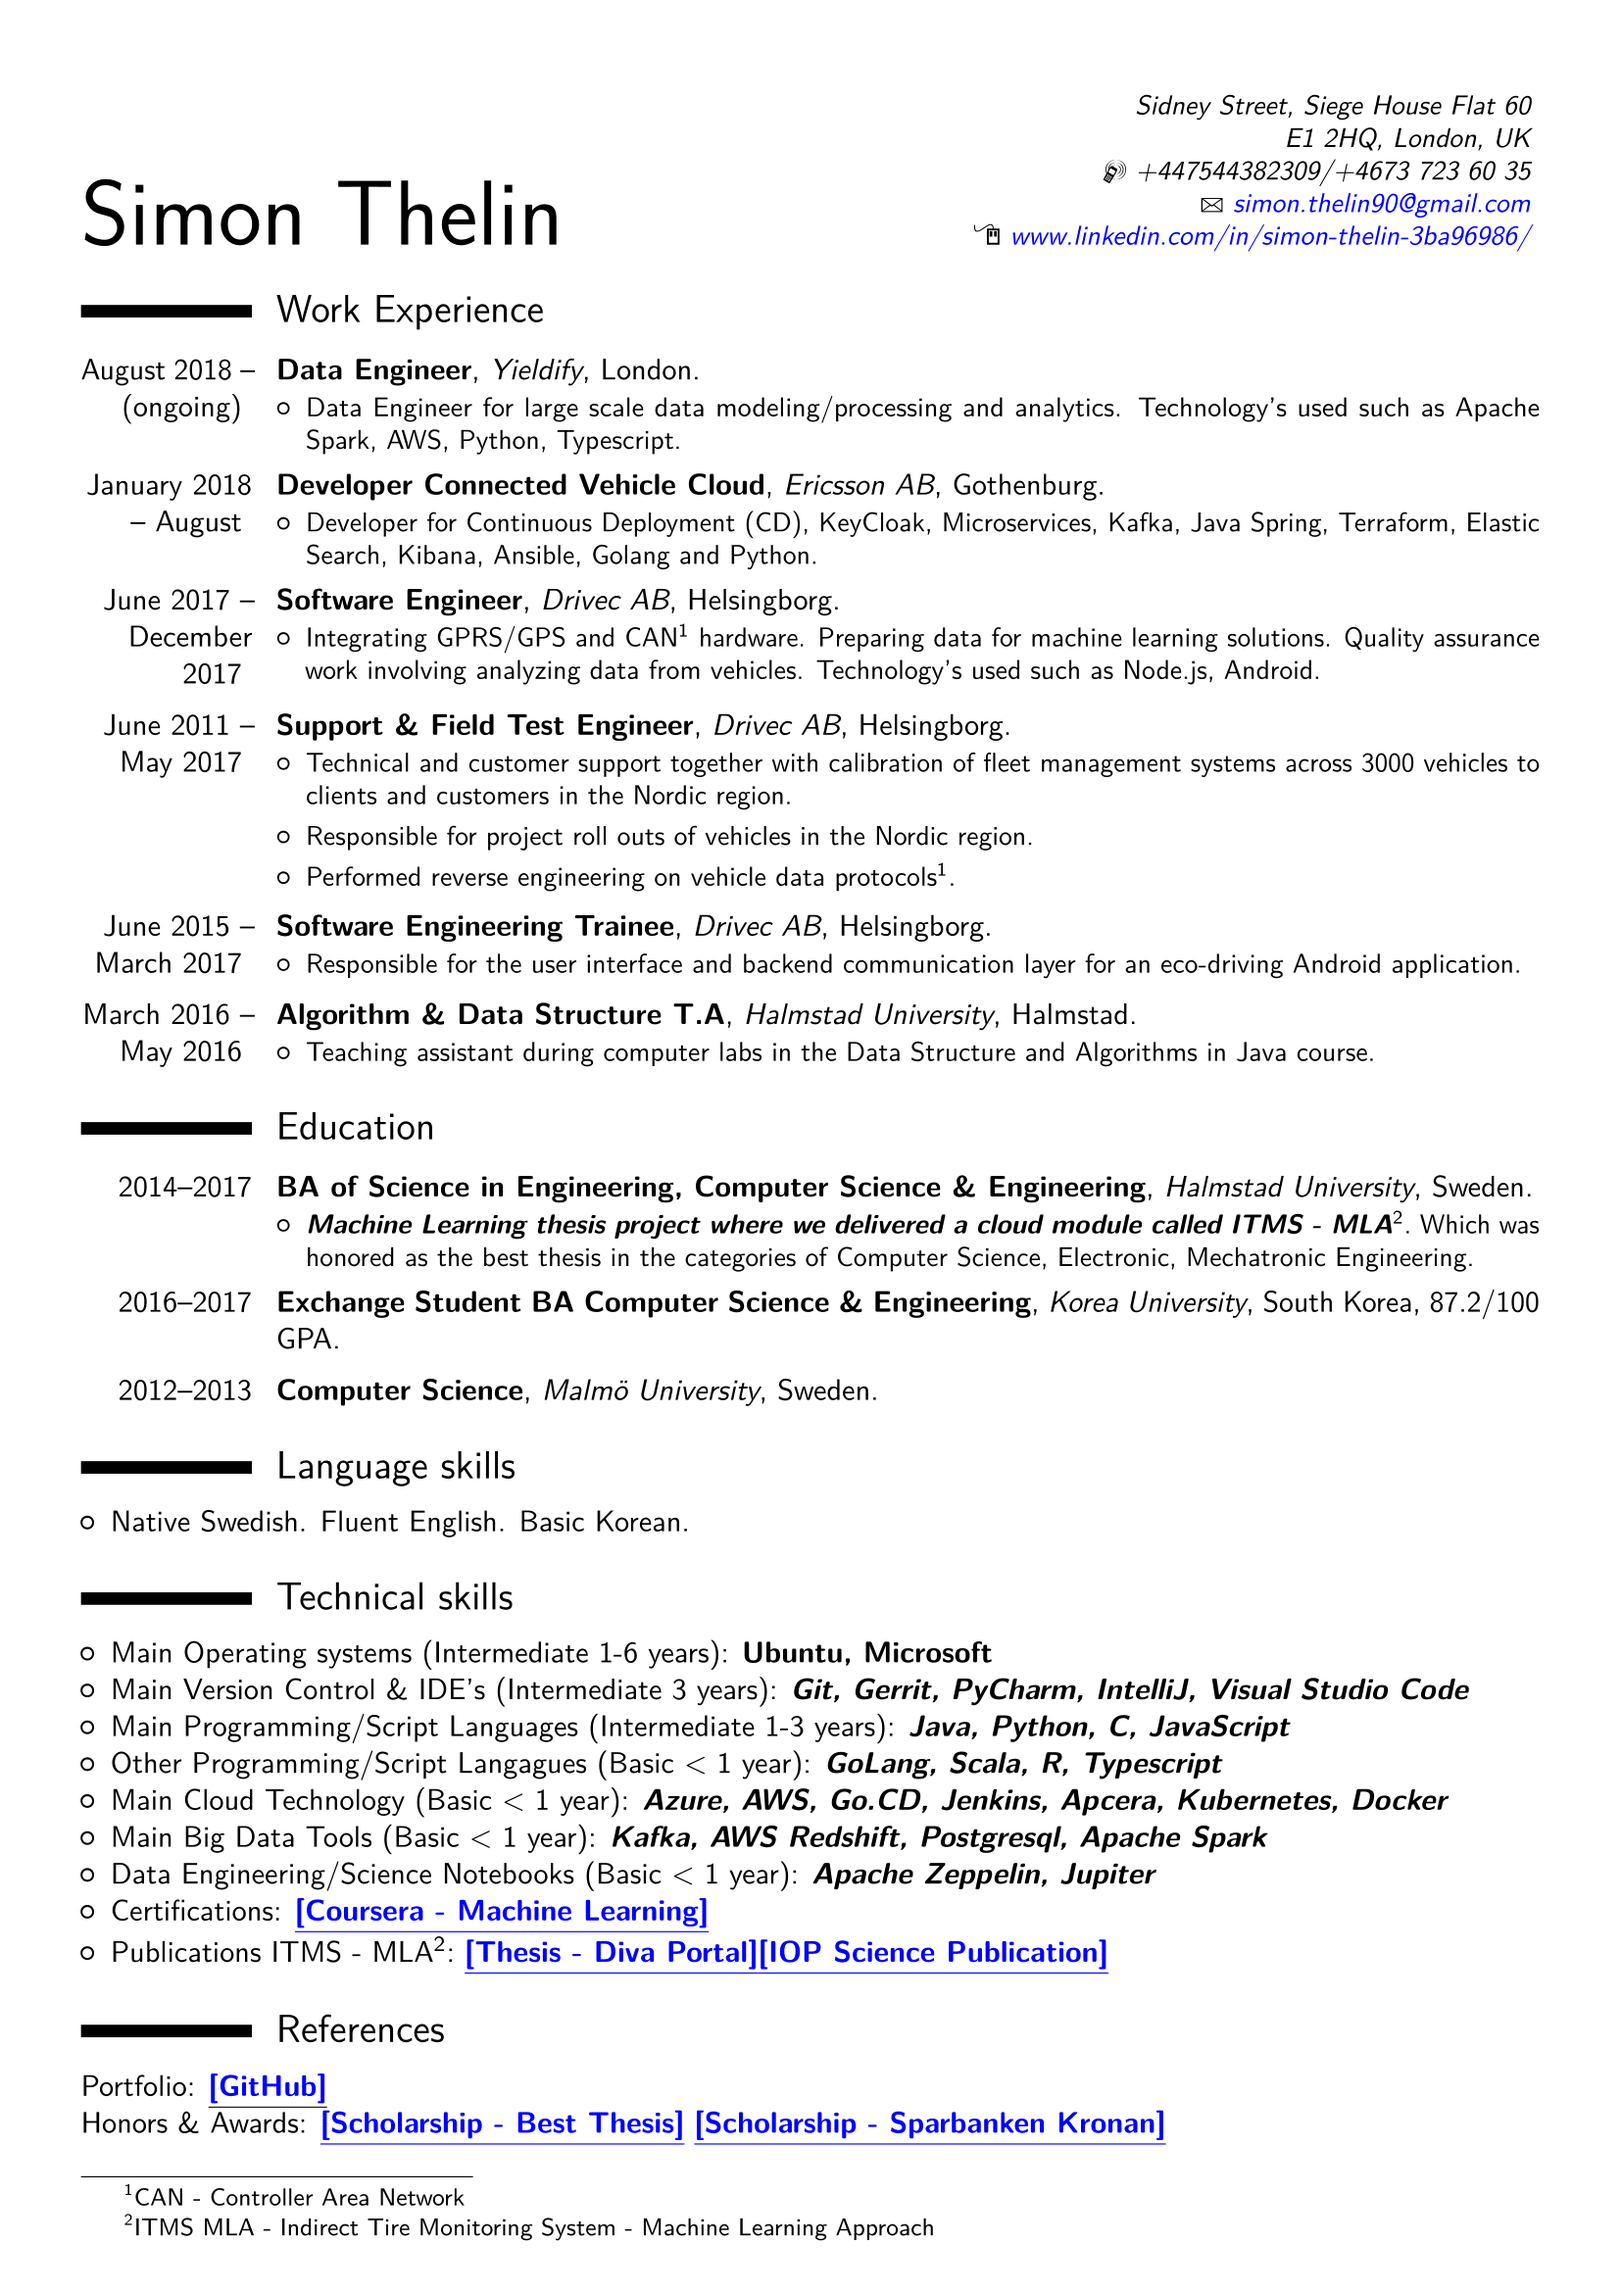
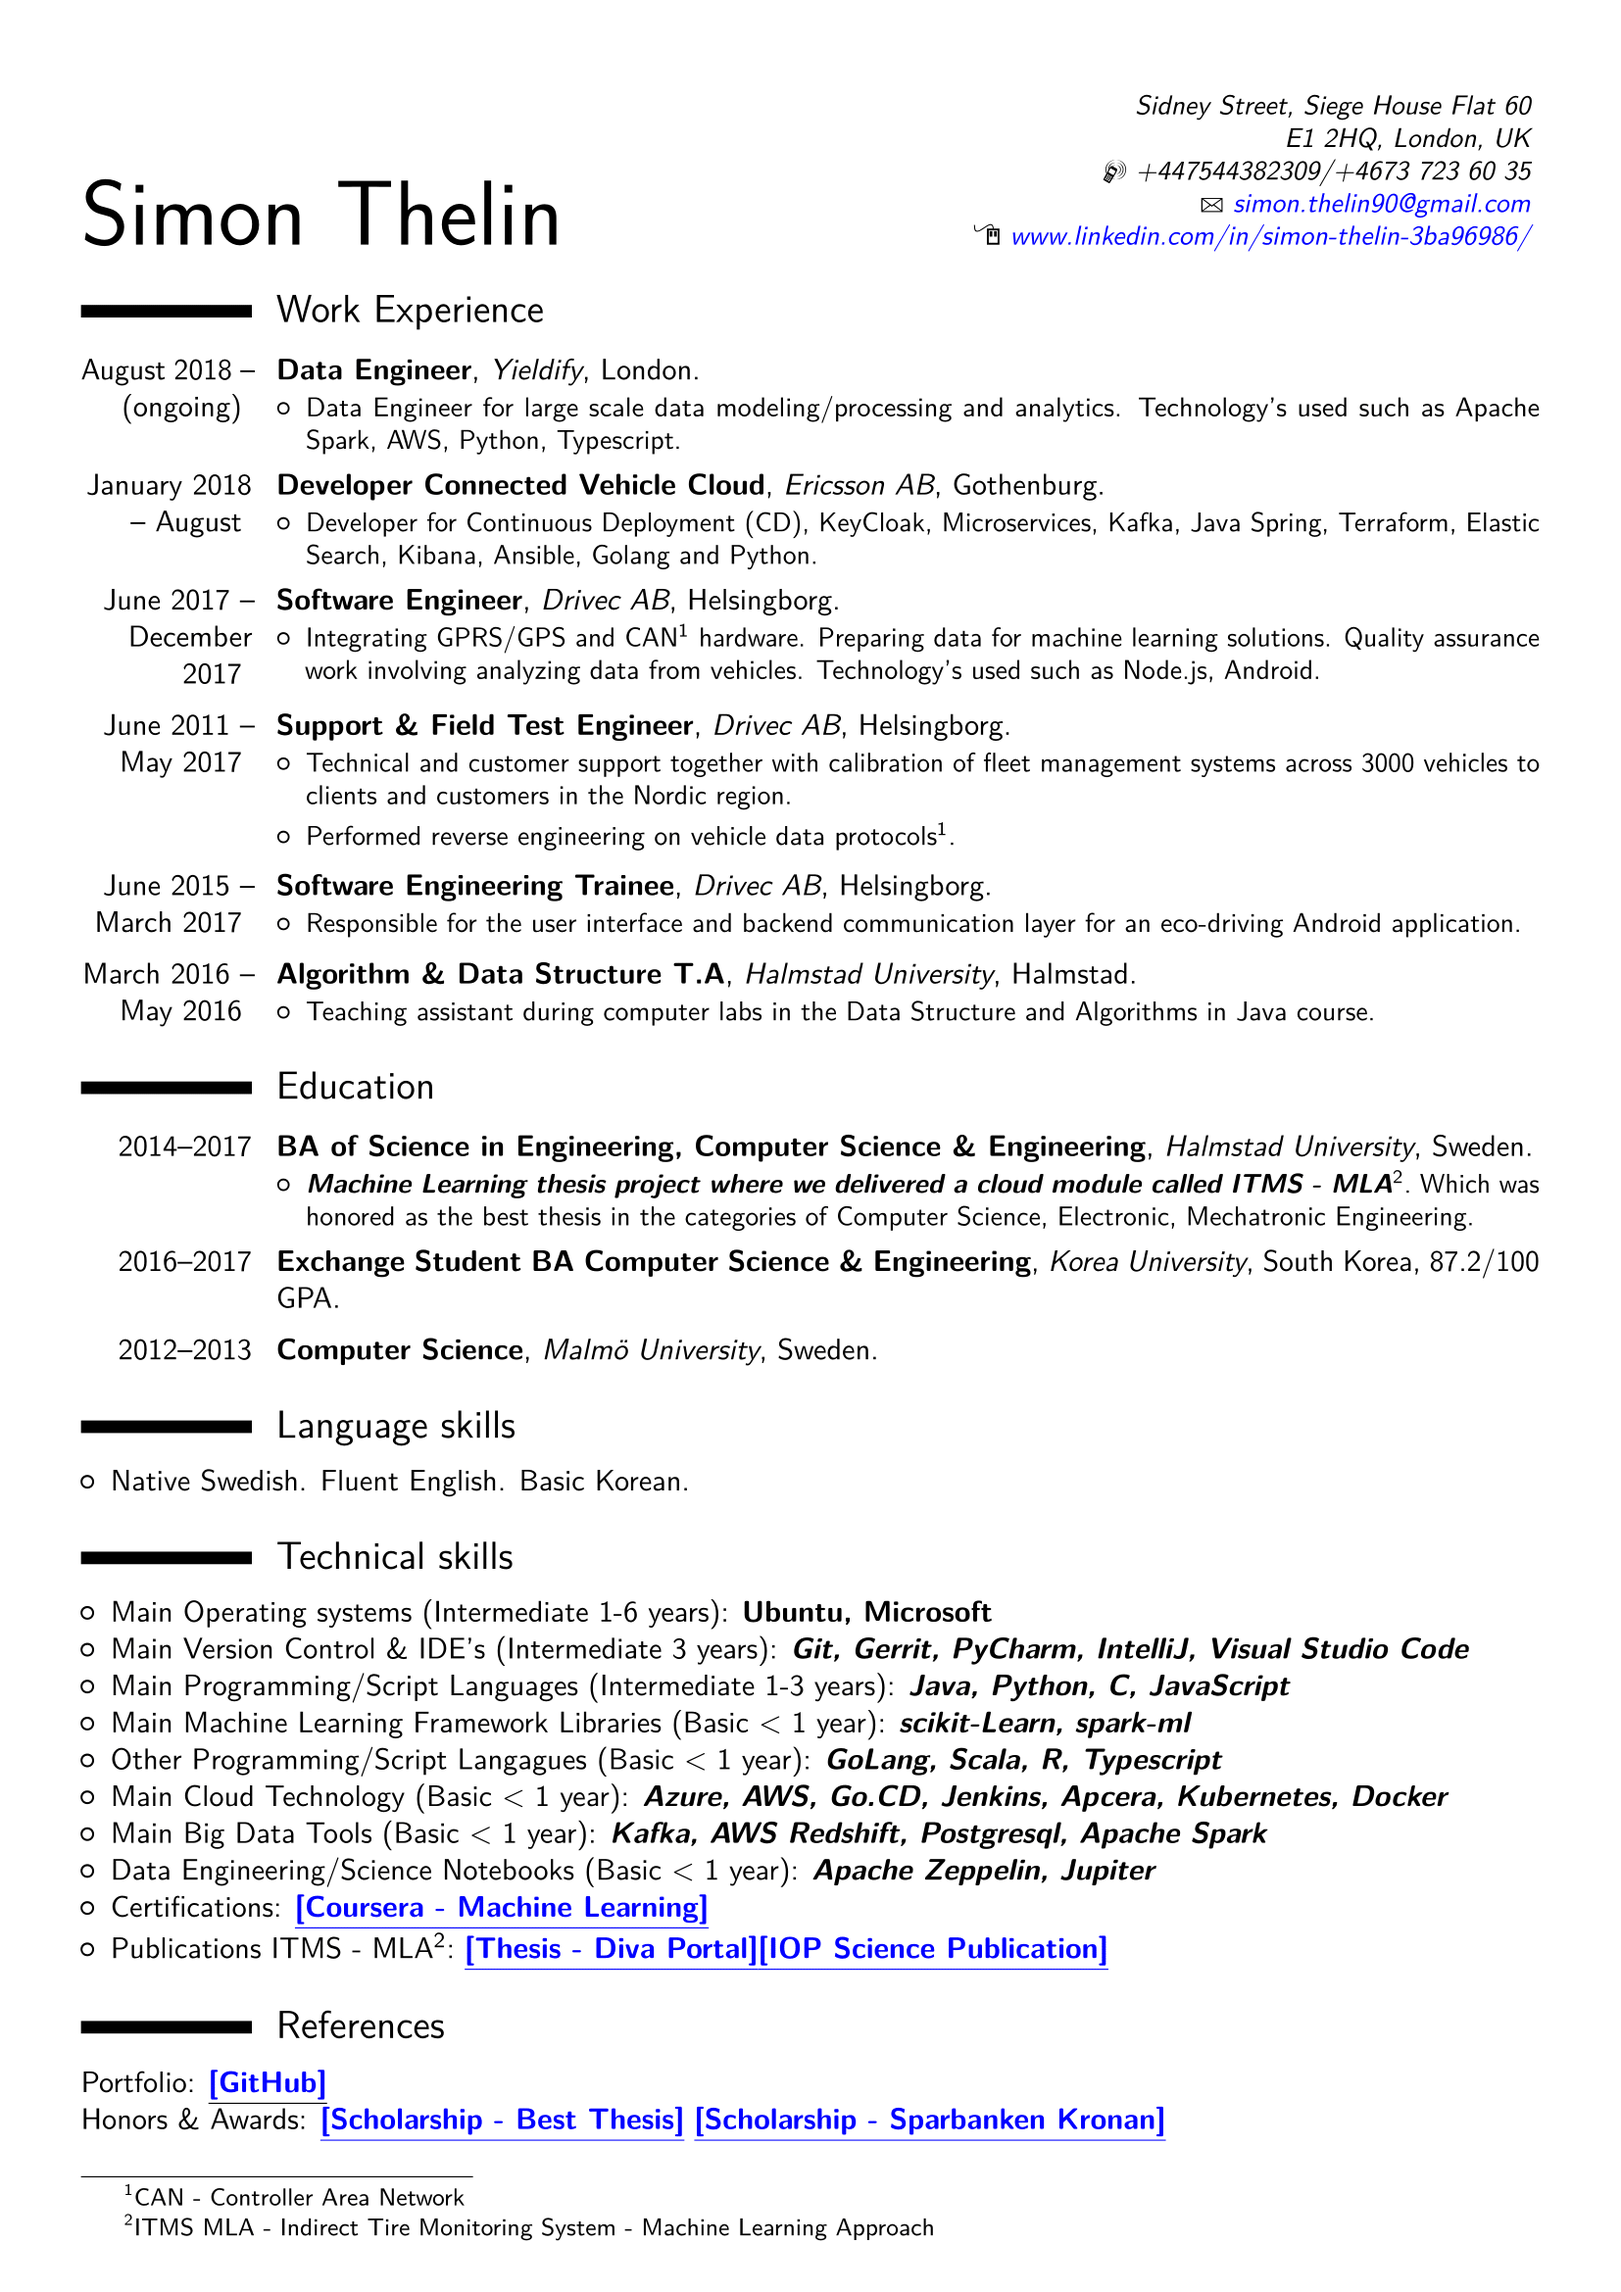
ML library frameworks added

Changed region(s): [[0.0308, 0.3433, 0.9559, 0.9363], [0.8634, 0.4057, 0.925, 0.4369], [0.37, 0.6242, 0.4008, 0.6866]]

diff --git a/THELIN_SIMON_CV.tex b/THELIN_SIMON_CV.tex
@@ -97,7 +97,7 @@
     \itemsep0.3em
     %\item Project launches, installations, installation manuals, vehicle configuration.
     \item Technical and customer support together with calibration of fleet management systems across 3000 vehicles to clients and customers in the Nordic region.
-    \item Responsible for project roll outs of vehicles in the Nordic region.
+    %\item Responsible for project roll outs of vehicles in the Nordic region.
     \item Performed reverse engineering on vehicle data protocols\footnotemark[1].
     %\item CAN-bus data analysis, reverse engineering.
 \end{itemize} 
@@ -147,6 +147,7 @@
     \item Main Operating systems (Intermediate 1-6 years): \textbf{Ubuntu, Microsoft}
     \item Main Version Control \& IDE's (Intermediate 3 years): \textbf{\textit{Git, Gerrit, PyCharm, IntelliJ, Visual Studio Code}}
     \item Main Programming/Script Languages (Intermediate 1-3 years): \textbf{\textit{Java, Python, C, JavaScript}}
+    \item Main Machine Learning Framework Libraries (Basic < 1 year): \textbf{\textit{scikit-Learn, spark-ml}}
     \item Other Programming/Script Langagues (Basic < 1 year): \textbf{\textit{GoLang, Scala, R, Typescript}}
     \item Main Cloud Technology (Basic < 1 year): \textbf{\textit{Azure, AWS, Go.CD, Jenkins, Apcera, Kubernetes, Docker}}
     \item Main Big Data Tools (Basic < 1 year): \textbf{\textit{Kafka, AWS Redshift, Postgresql, Apache Spark}}
